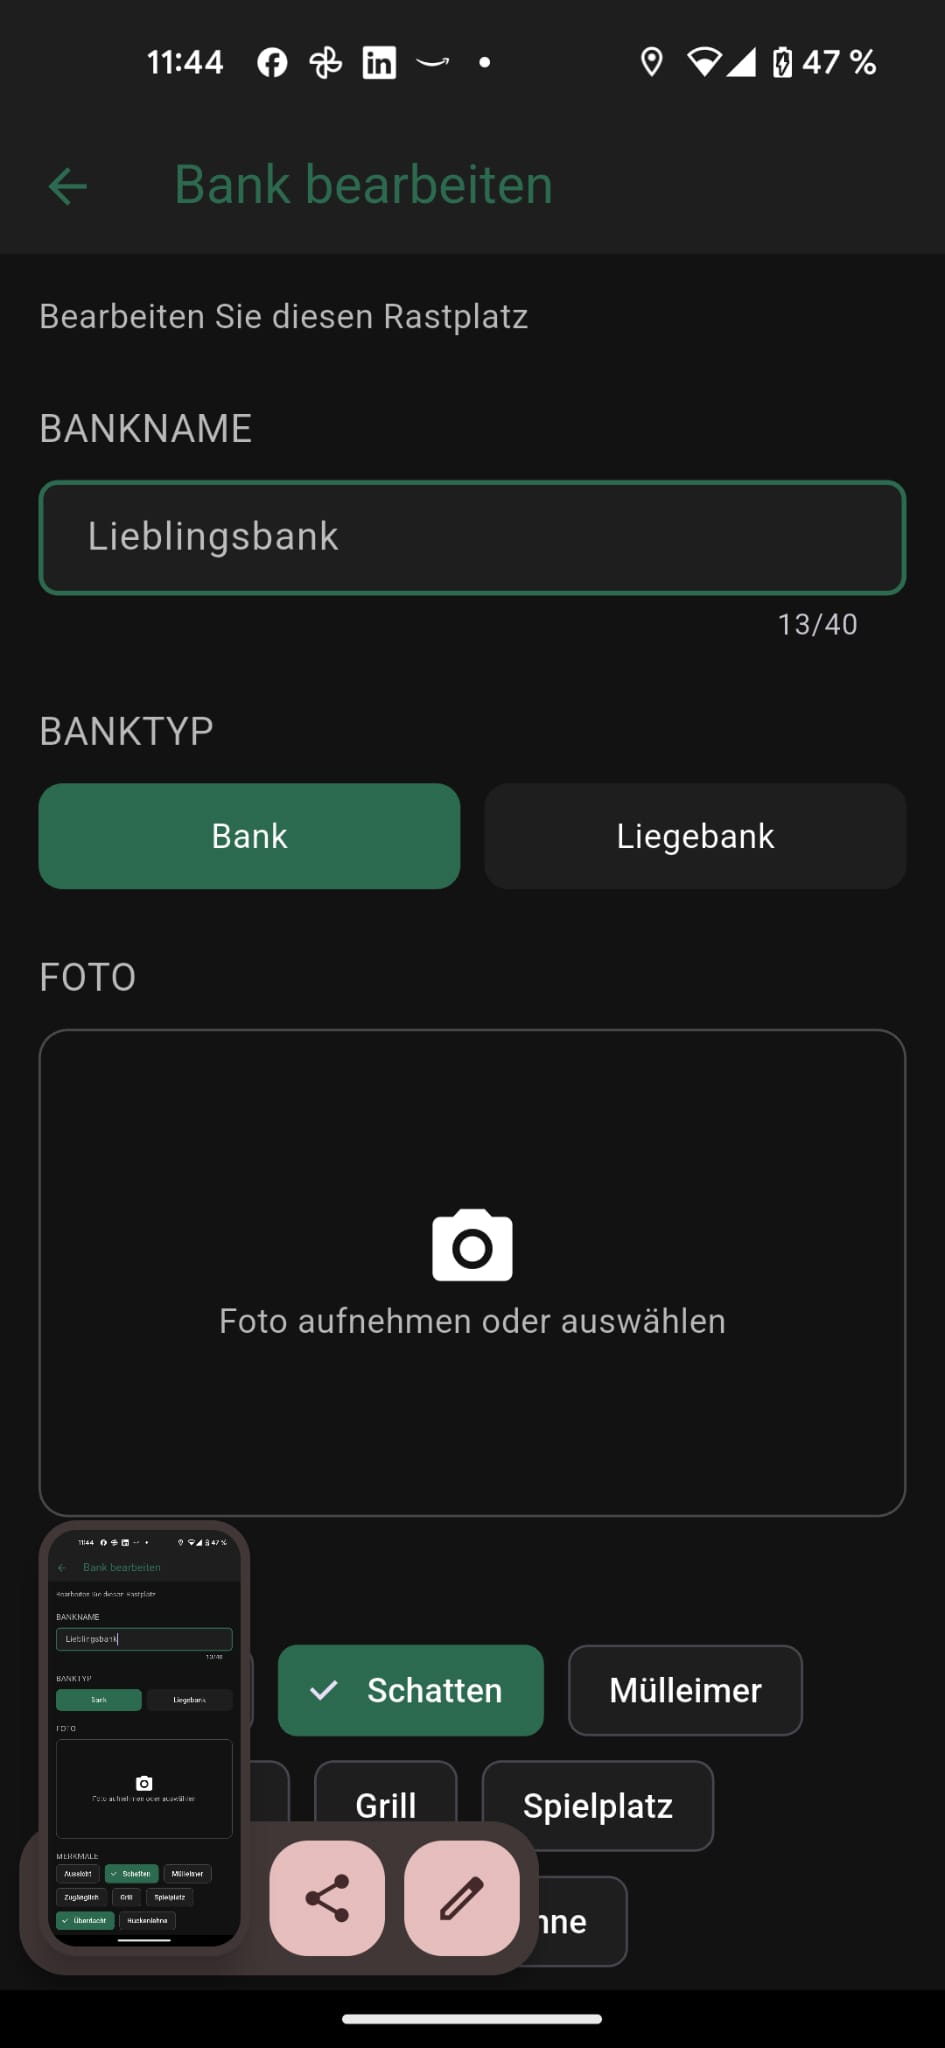
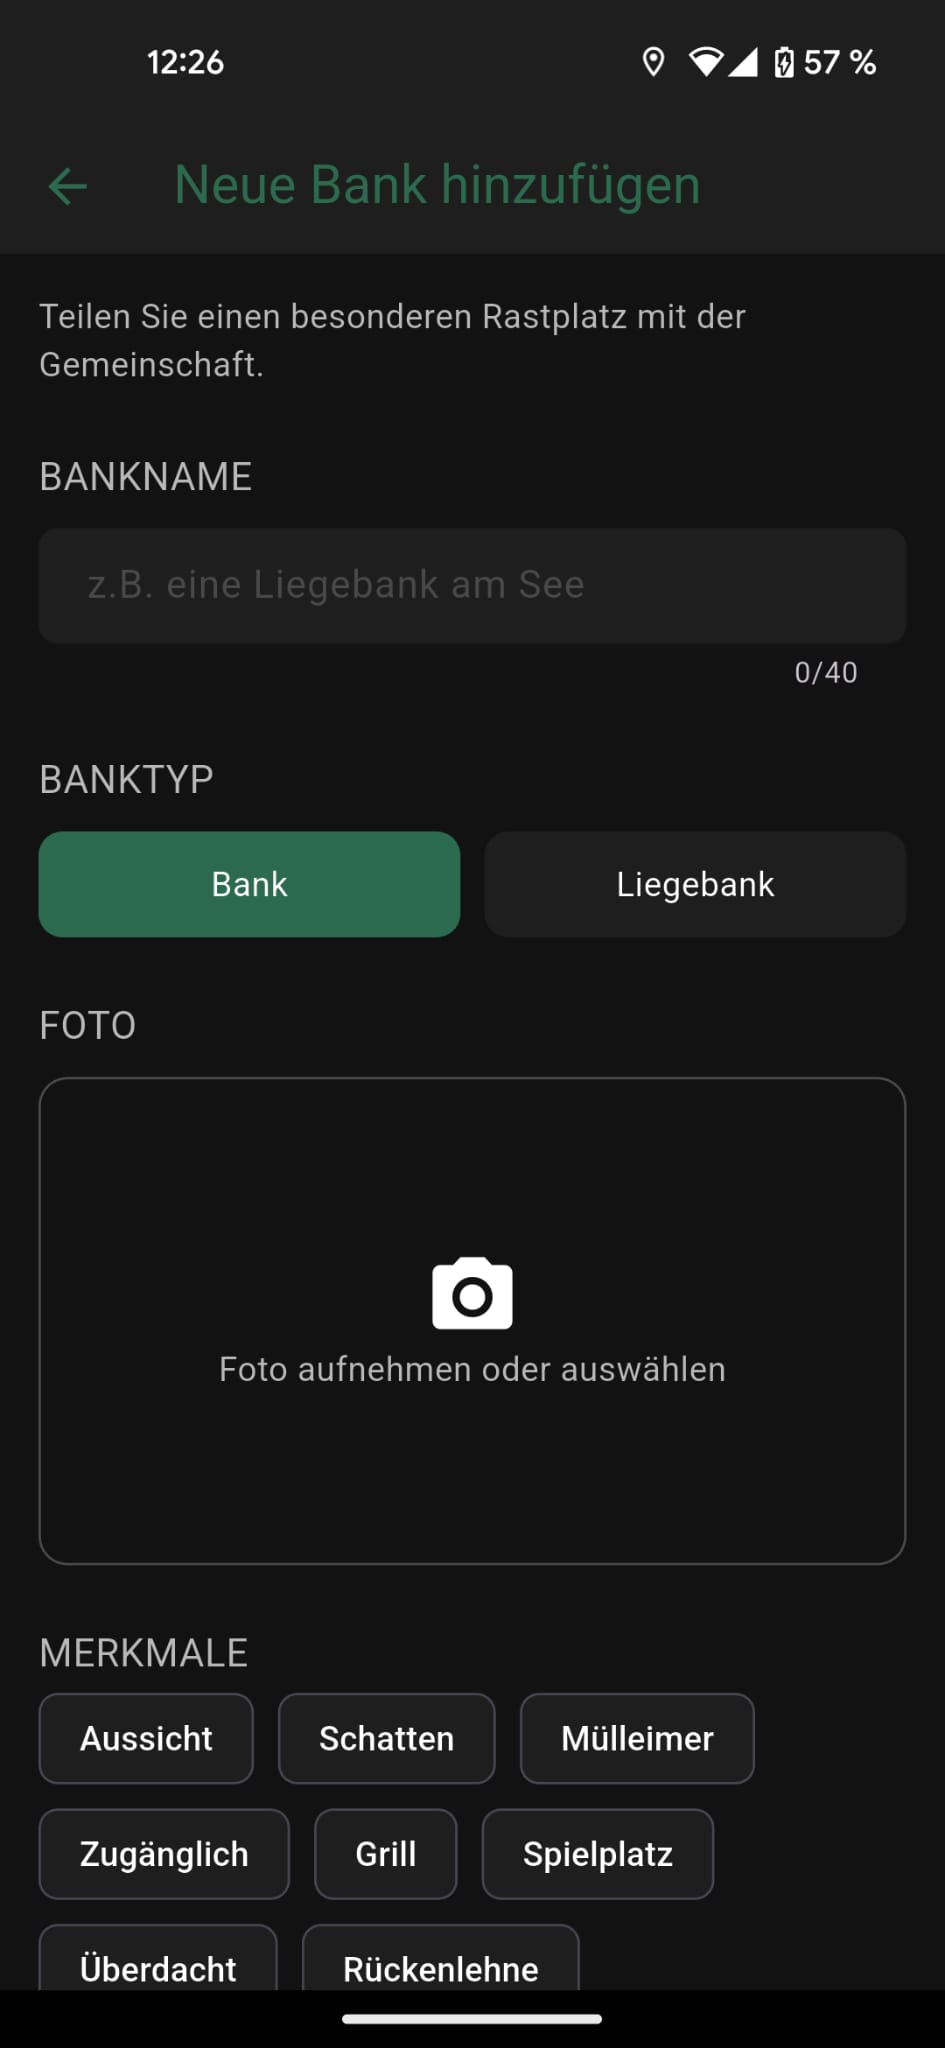
update design

diff --git a/index.html b/index.html
@@ -1,31 +1,12 @@
 <!DOCTYPE html>
-}
+<html lang="de">
+<head>
+  <meta charset="UTF-8">
+  <meta name="viewport" content="width=device-width, initial-scale=1.0">
+  <title>GreenSeat</title>
 
-.feature h3 {
-margin-top: 0;
-}
-
-.cta {
-text-align: center;
-padding: 80px 20px;
-background: #f6f6f6;
-}
-
-footer {
-padding: 30px;
-text-align: center;
-font-size: 14px;
-color: #777;
-border-top: 1px solid #eee;
-}
-
-footer a {
-color: #2e7d5b;
-text-decoration: none;
-margin-left: 10px;
-}
-
-</style>
+  <link rel="stylesheet" href="styles.css">
+  <link href="https://fonts.googleapis.com/css2?family=Inter:wght@400;600;700&display=swap" rel="stylesheet">
 </head>
 <body>
 
@@ -38,6 +19,7 @@ margin-left: 10px;
   </nav>
 </header>
 
+<!-- HERO -->
 <section class="hero">
   <div class="hero-content">
     <h2>Entdecke die besten Plätze draußen</h2>
@@ -46,6 +28,19 @@ margin-left: 10px;
   </div>
 </section>
 
+<!-- FEATURE IMAGE SECTION -->
+<section class="section">
+  <h2>Karte entdecken</h2>
+  <div class="highlight">
+    <img src="https://raw.githubusercontent.com/BengelMitSchwengel/GreenseatPage/main/map.jpeg" alt="Map">
+    <div>
+      <h3>Alle Spots auf einen Blick</h3>
+      <p>Sieh sofort, wo sich die besten Sitzplätze in deiner Umgebung befinden.</p>
+    </div>
+  </div>
+</section>
+
+<!-- SCREENSHOTS -->
 <section id="screens" class="section">
   <h2>So sieht GreenSeat aus</h2>
   <div class="screens">
@@ -56,24 +51,49 @@ margin-left: 10px;
   </div>
 </section>
 
-<section id="features" class="section">
-  <h2>Warum GreenSeat?</h2>
-  <div class="features">
-    <div class="feature">
-      <h3>📍 Entdecken</h3>
-      <p>Finde neue Orte in deiner Nähe.</p>
-    </div>
-    <div class="feature">
-      <h3>❤ Speichern</h3>
-      <p>Markiere deine Lieblingsplätze.</p>
-    </div>
-    <div class="feature">
-      <h3>➕ Teilen</h3>
-      <p>Füge neue Bänke für andere hinzu.</p>
+<!-- DETAIL SECTIONS -->
+<section class="section">
+  <div class="split">
+    <img src="https://raw.githubusercontent.com/BengelMitSchwengel/GreenseatPage/main/favorites.jpeg">
+    <div>
+      <h3>Speichere deine Lieblingsplätze</h3>
+      <p>Markiere Spots, die dir gefallen, und finde sie jederzeit wieder.</p>
     </div>
   </div>
 </section>
 
+<section class="section">
+  <div class="split reverse">
+    <img src="https://raw.githubusercontent.com/BengelMitSchwengel/GreenseatPage/main/addbench.jpeg">
+    <div>
+      <h3>Teile neue Orte</h3>
+      <p>Füge neue Bänke hinzu und hilf der Community, noch bessere Plätze zu entdecken.</p>
+    </div>
+  </div>
+</section>
+
+<section class="section">
+  <div class="split">
+    <img src="https://raw.githubusercontent.com/BengelMitSchwengel/GreenseatPage/main/myprofile.jpeg">
+    <div>
+      <h3>Dein Profil</h3>
+      <p>Verwalte deine gespeicherten Orte und Aktivitäten übersichtlich.</p>
+    </div>
+  </div>
+</section>
+
+<!-- FEATURES -->
+<section id="features" class="section">
+  <h2>Warum GreenSeat?</h2>
+  <div class="features">
+    <div class="feature">📍 Entdecken</div>
+    <div class="feature">❤ Speichern</div>
+    <div class="feature">➕ Teilen</div>
+    <div class="feature">🌙 Dark Mode</div>
+  </div>
+</section>
+
+<!-- CTA -->
 <section class="cta">
   <h2>Bereit rauszugehen?</h2>
   <p>Hol dir die App und entdecke neue Orte.</p>
